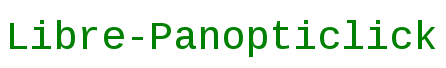
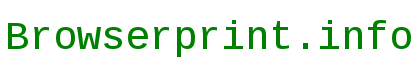
Changed name to browserprint

Changed region(s): [[0.0, 0.2941, 0.9928, 0.8529], [0.5274, 0.2941, 0.5895, 0.3529]]

diff --git a/WebContent/WEB-INF/header.html b/WebContent/WEB-INF/header.html
@@ -1,3 +1,3 @@
 <div id="header">
-	<a href="."><img src="images/heading.png" alt="Libre-Panopticlick"></a>
+	<a href="."><img src="images/heading.png" alt="Browserprint"></a>
 </div>

diff --git a/WebContent/WEB-INF/error/error.html b/WebContent/WEB-INF/error/error.html
@@ -2,7 +2,7 @@
 <html>
 <head>
 <meta charset="UTF-8">
-<title>Libre-Panopticlick</title>
+<title>Browserprint</title>
 </head>
 <body>
 	An error has occurred.

diff --git a/WebContent/WEB-INF/error/404.html b/WebContent/WEB-INF/error/404.html
@@ -2,7 +2,7 @@
 <html>
 <head>
 <meta charset="UTF-8">
-<title>Libre-Panopticlick</title>
+<title>Browserprint</title>
 </head>
 <body>
 	404 page not found.

diff --git a/src/DAOs/Database.java b/src/DAOs/Database.java
@@ -20,7 +20,7 @@ public class Database {
 		try {
 			initContext = new InitialContext();
 			envContext = (Context) initContext.lookup("java:/comp/env");
-			ds = (DataSource) envContext.lookup("jdbc/lpanopticlickDB");
+			ds = (DataSource) envContext.lookup("jdbc/browserprintDB");
 		} catch (NamingException e) {
 			e.printStackTrace();
 			ds = null;
